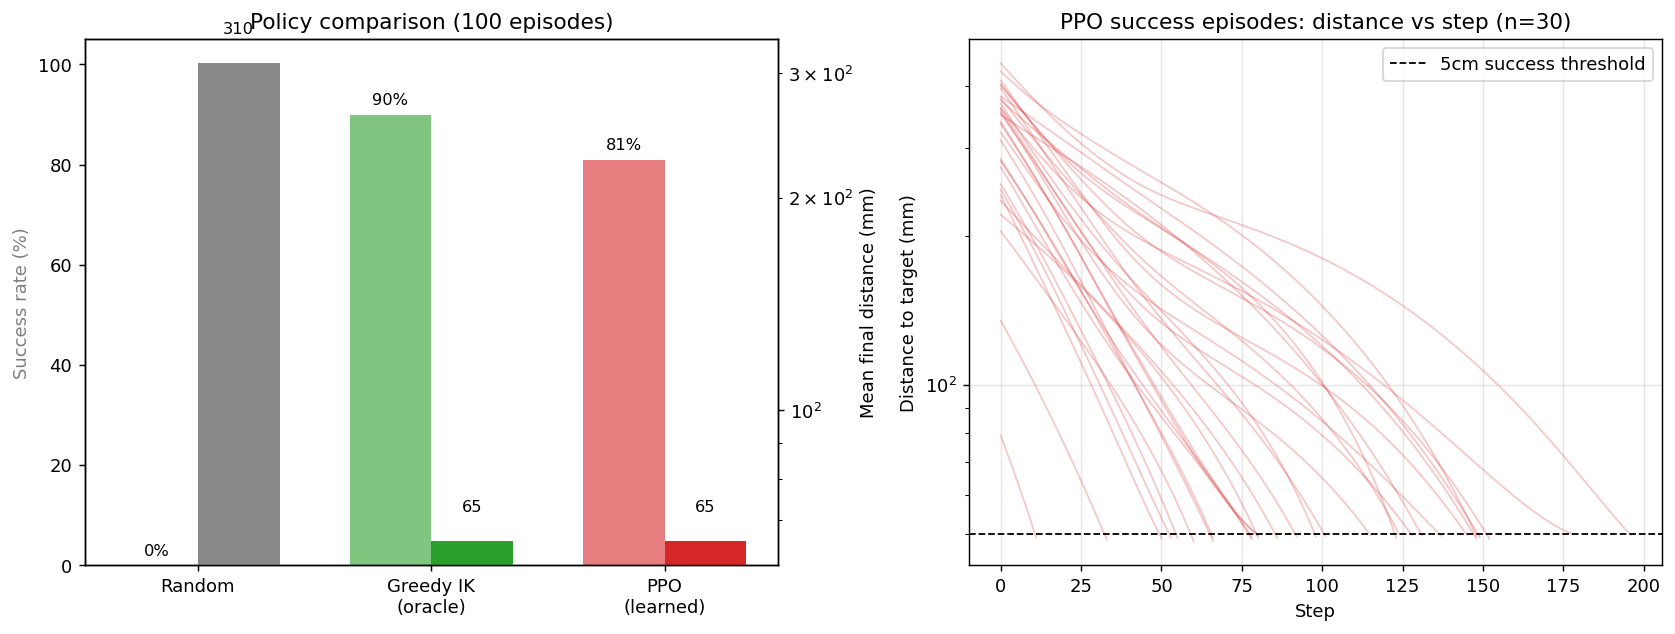
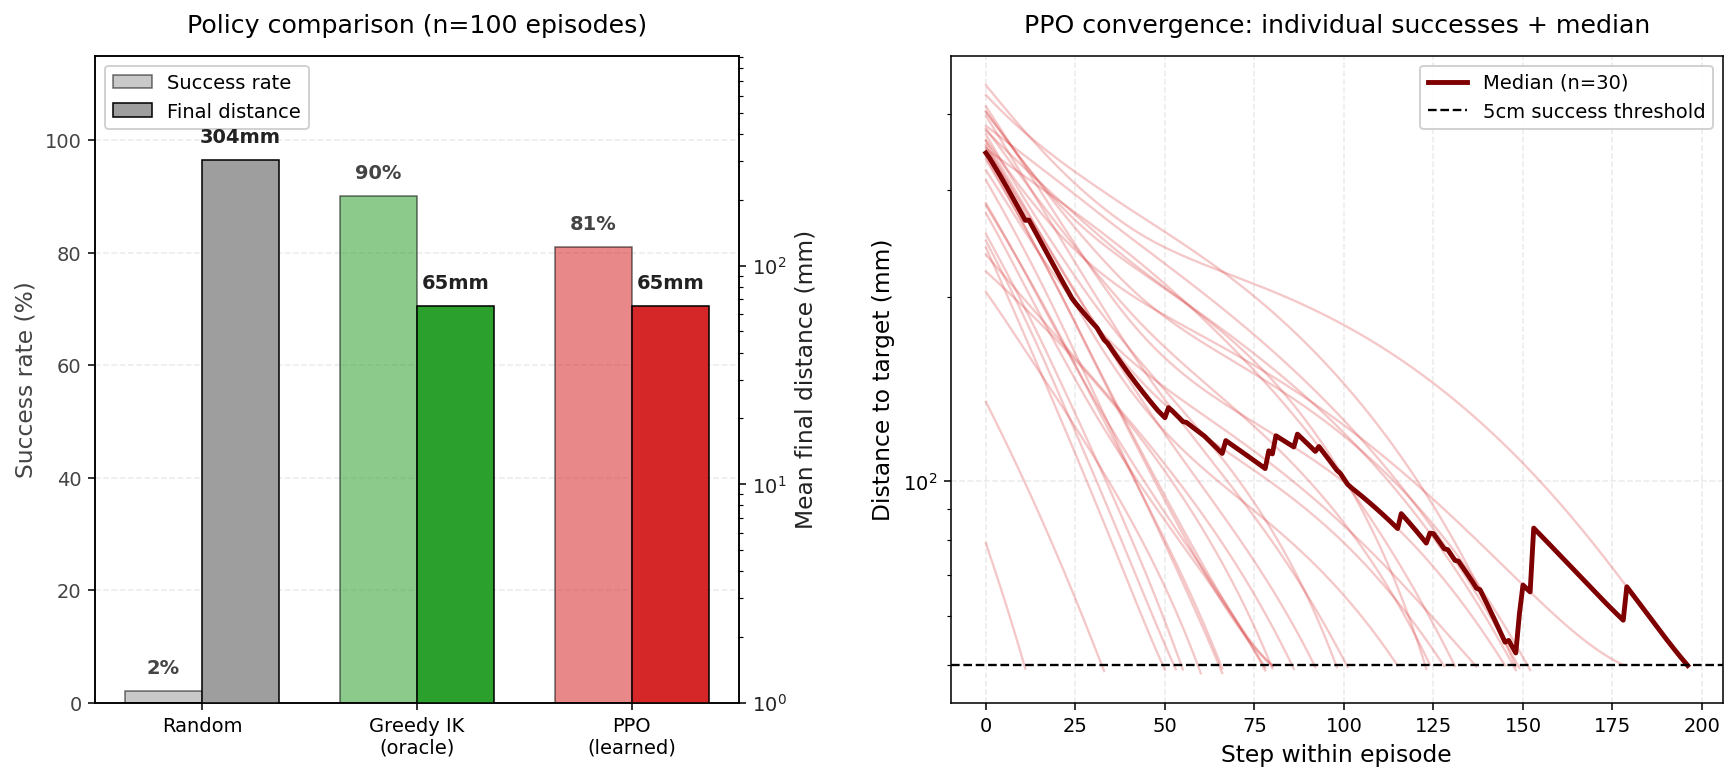
Day 14: polish eval figure (readable fonts, median line, log limits)

diff --git a/scripts/18_eval_ppo.py b/scripts/18_eval_ppo.py
@@ -110,11 +110,22 @@ def main():
 
     env.close()
 
-    # ---------- 画对比图 ----------
-    fig, axes = plt.subplots(1, 2, figsize=(13, 5))
+    # ---------- 画对比图(v2:可读性优化)----------
+    plt.rcParams.update({
+        "font.size": 11,
+        "axes.titlesize": 13,
+        "axes.labelsize": 12,
+        "xtick.labelsize": 10,
+        "ytick.labelsize": 10,
+        "legend.fontsize": 10,
+    })
 
-    # 左:三方指标对比
-    ax = axes[0]
+    fig = plt.figure(figsize=(15, 6))
+    gs = fig.add_gridspec(1, 2, width_ratios=[1, 1.2], wspace=0.30)
+    ax_left = fig.add_subplot(gs[0])
+    ax_right = fig.add_subplot(gs[1])
+
+    # ============ 左:三方对比柱状图(双 y 轴拆分,避免量级冲突)============
     labels = ["Random", "Greedy IK\n(oracle)", "PPO\n(learned)"]
     success = [rand_stats["success_rate"]*100,
                ik_stats["success_rate"]*100,
@@ -122,43 +133,85 @@ def main():
     finals = [rand_stats["mean_final_dist_mm"],
               ik_stats["mean_final_dist_mm"],
               ppo_stats["mean_final_dist_mm"]]
-    colors = ["#888888", "#2ca02c", "#d62728"]
-    x = np.arange(3)
-    w = 0.35
-    ax2 = ax.twinx()
-    bars1 = ax.bar(x - w/2, success, w, color=colors, alpha=0.6, label="Success rate (%)")
-    bars2 = ax2.bar(x + w/2, finals, w, color=colors, alpha=1.0, label="Final dist (mm)")
-    ax.set_xticks(x); ax.set_xticklabels(labels)
-    ax.set_ylabel("Success rate (%)", color="gray")
-    ax2.set_ylabel("Mean final distance (mm)")
-    ax2.set_yscale("log")
-    ax.set_title(f"Policy comparison ({args.episodes} episodes)")
-    ax.set_ylim(0, 105)
-    for b, v in zip(bars1, success):
-        ax.text(b.get_x()+b.get_width()/2, v+2, f"{v:.0f}%", ha="center", fontsize=9)
-    for b, v in zip(bars2, finals):
-        ax2.text(b.get_x()+b.get_width()/2, v*1.1, f"{v:.0f}", ha="center", fontsize=9)
+    colors = ["#9e9e9e", "#2ca02c", "#d62728"]
 
-    # 右:PPO 成功 episode 的距离曲线(展示收敛行为)
-    ax = axes[1]
+    x = np.arange(3)
+    w = 0.36
+
+    ax2 = ax_left.twinx()
+
+    bars_succ = ax_left.bar(x - w/2, success, w,
+                            color=colors, alpha=0.55,
+                            edgecolor="black", linewidth=0.8,
+                            label="Success rate")
+    bars_dist = ax2.bar(x + w/2, finals, w,
+                       color=colors, alpha=1.0,
+                       edgecolor="black", linewidth=0.8,
+                       label="Final distance")
+
+    ax_left.set_xticks(x)
+    ax_left.set_xticklabels(labels)
+    ax_left.set_ylabel("Success rate (%)", color="#444")
+    ax_left.set_ylim(0, 115)                                  # 给 label 留空间
+    ax_left.tick_params(axis="y", labelcolor="#444")
+    ax_left.set_title(f"Policy comparison (n={args.episodes} episodes)",
+                      pad=12)
+    ax_left.grid(True, axis="y", alpha=0.25, linestyle="--")
+    ax_left.set_axisbelow(True)
+
+    ax2.set_ylabel("Mean final distance (mm)", color="#222")
+    ax2.set_yscale("log")
+    ax2.set_ylim(1, max(finals) * 3)                          # log 上限留空间
+    ax2.tick_params(axis="y", labelcolor="#222")
+
+    # 柱顶标签(success 在上,distance 在数字旁,不再相互压住)
+    for b, v in zip(bars_succ, success):
+        ax_left.text(b.get_x() + b.get_width()/2, v + 2.5,
+                     f"{v:.0f}%", ha="center", va="bottom",
+                     fontsize=10, fontweight="bold", color="#444")
+    for b, v in zip(bars_dist, finals):
+        ax2.text(b.get_x() + b.get_width()/2, v * 1.15,
+                 f"{v:.0f}mm", ha="center", va="bottom",
+                 fontsize=10, fontweight="bold", color="#222")
+
+    # 合并图例
+    h1, l1 = ax_left.get_legend_handles_labels()
+    h2, l2 = ax2.get_legend_handles_labels()
+    ax_left.legend(h1 + h2, l1 + l2, loc="upper left",
+                   frameon=True, framealpha=0.9)
+
+    # ============ 右:PPO 成功 episodes 收敛曲线 ============
     traces = ppo_stats["success_traces"][:30]
     for trace in traces:
-        ax.plot(np.array(trace)*1000, color="#d62728", alpha=0.25, lw=1)
-    ax.axhline(50, color="black", ls="--", lw=1, label="5cm success threshold")
-    ax.set_xlabel("Step")
-    ax.set_ylabel("Distance to target (mm)")
-    ax.set_title(f"PPO success episodes: distance vs step (n={len(traces)})")
-    ax.set_yscale("log")
-    ax.legend()
-    ax.grid(True, alpha=0.3)
+        ax_right.plot(np.array(trace) * 1000,
+                      color="#d62728", alpha=0.25, lw=1.2)
+
+    # 画一条中位数粗线,显示"典型收敛行为"
+    max_len = max(len(t) for t in traces)
+    # 把每条 trace padding 到 max_len(后段用 nan 不参与中位数)
+    padded = np.full((len(traces), max_len), np.nan)
+    for i, t in enumerate(traces):
+        padded[i, :len(t)] = np.array(t) * 1000
+    median_curve = np.nanmedian(padded, axis=0)
+    ax_right.plot(median_curve, color="#7f0000", lw=2.5,
+                  label=f"Median (n={len(traces)})")
+
+    ax_right.axhline(50, color="black", ls="--", lw=1.2,
+                     label="5cm success threshold")
+
+    ax_right.set_xlabel("Step within episode")
+    ax_right.set_ylabel("Distance to target (mm)")
+    ax_right.set_yscale("log")
+    ax_right.set_title("PPO convergence: individual successes + median",
+                       pad=12)
+    ax_right.legend(loc="upper right", frameon=True, framealpha=0.9)
+    ax_right.grid(True, alpha=0.25, linestyle="--")
+    ax_right.set_axisbelow(True)
 
     plt.tight_layout()
     out = "logs/day14_ppo_eval.png"
-    plt.savefig(out, dpi=130, bbox_inches="tight")
+    plt.savefig(out, dpi=140, bbox_inches="tight")
     print(f"\nFigure saved: {out}")
-    print("=" * 60)
-    print("Day 14 done.")
-    print("=" * 60)
 
 
 if __name__ == "__main__":